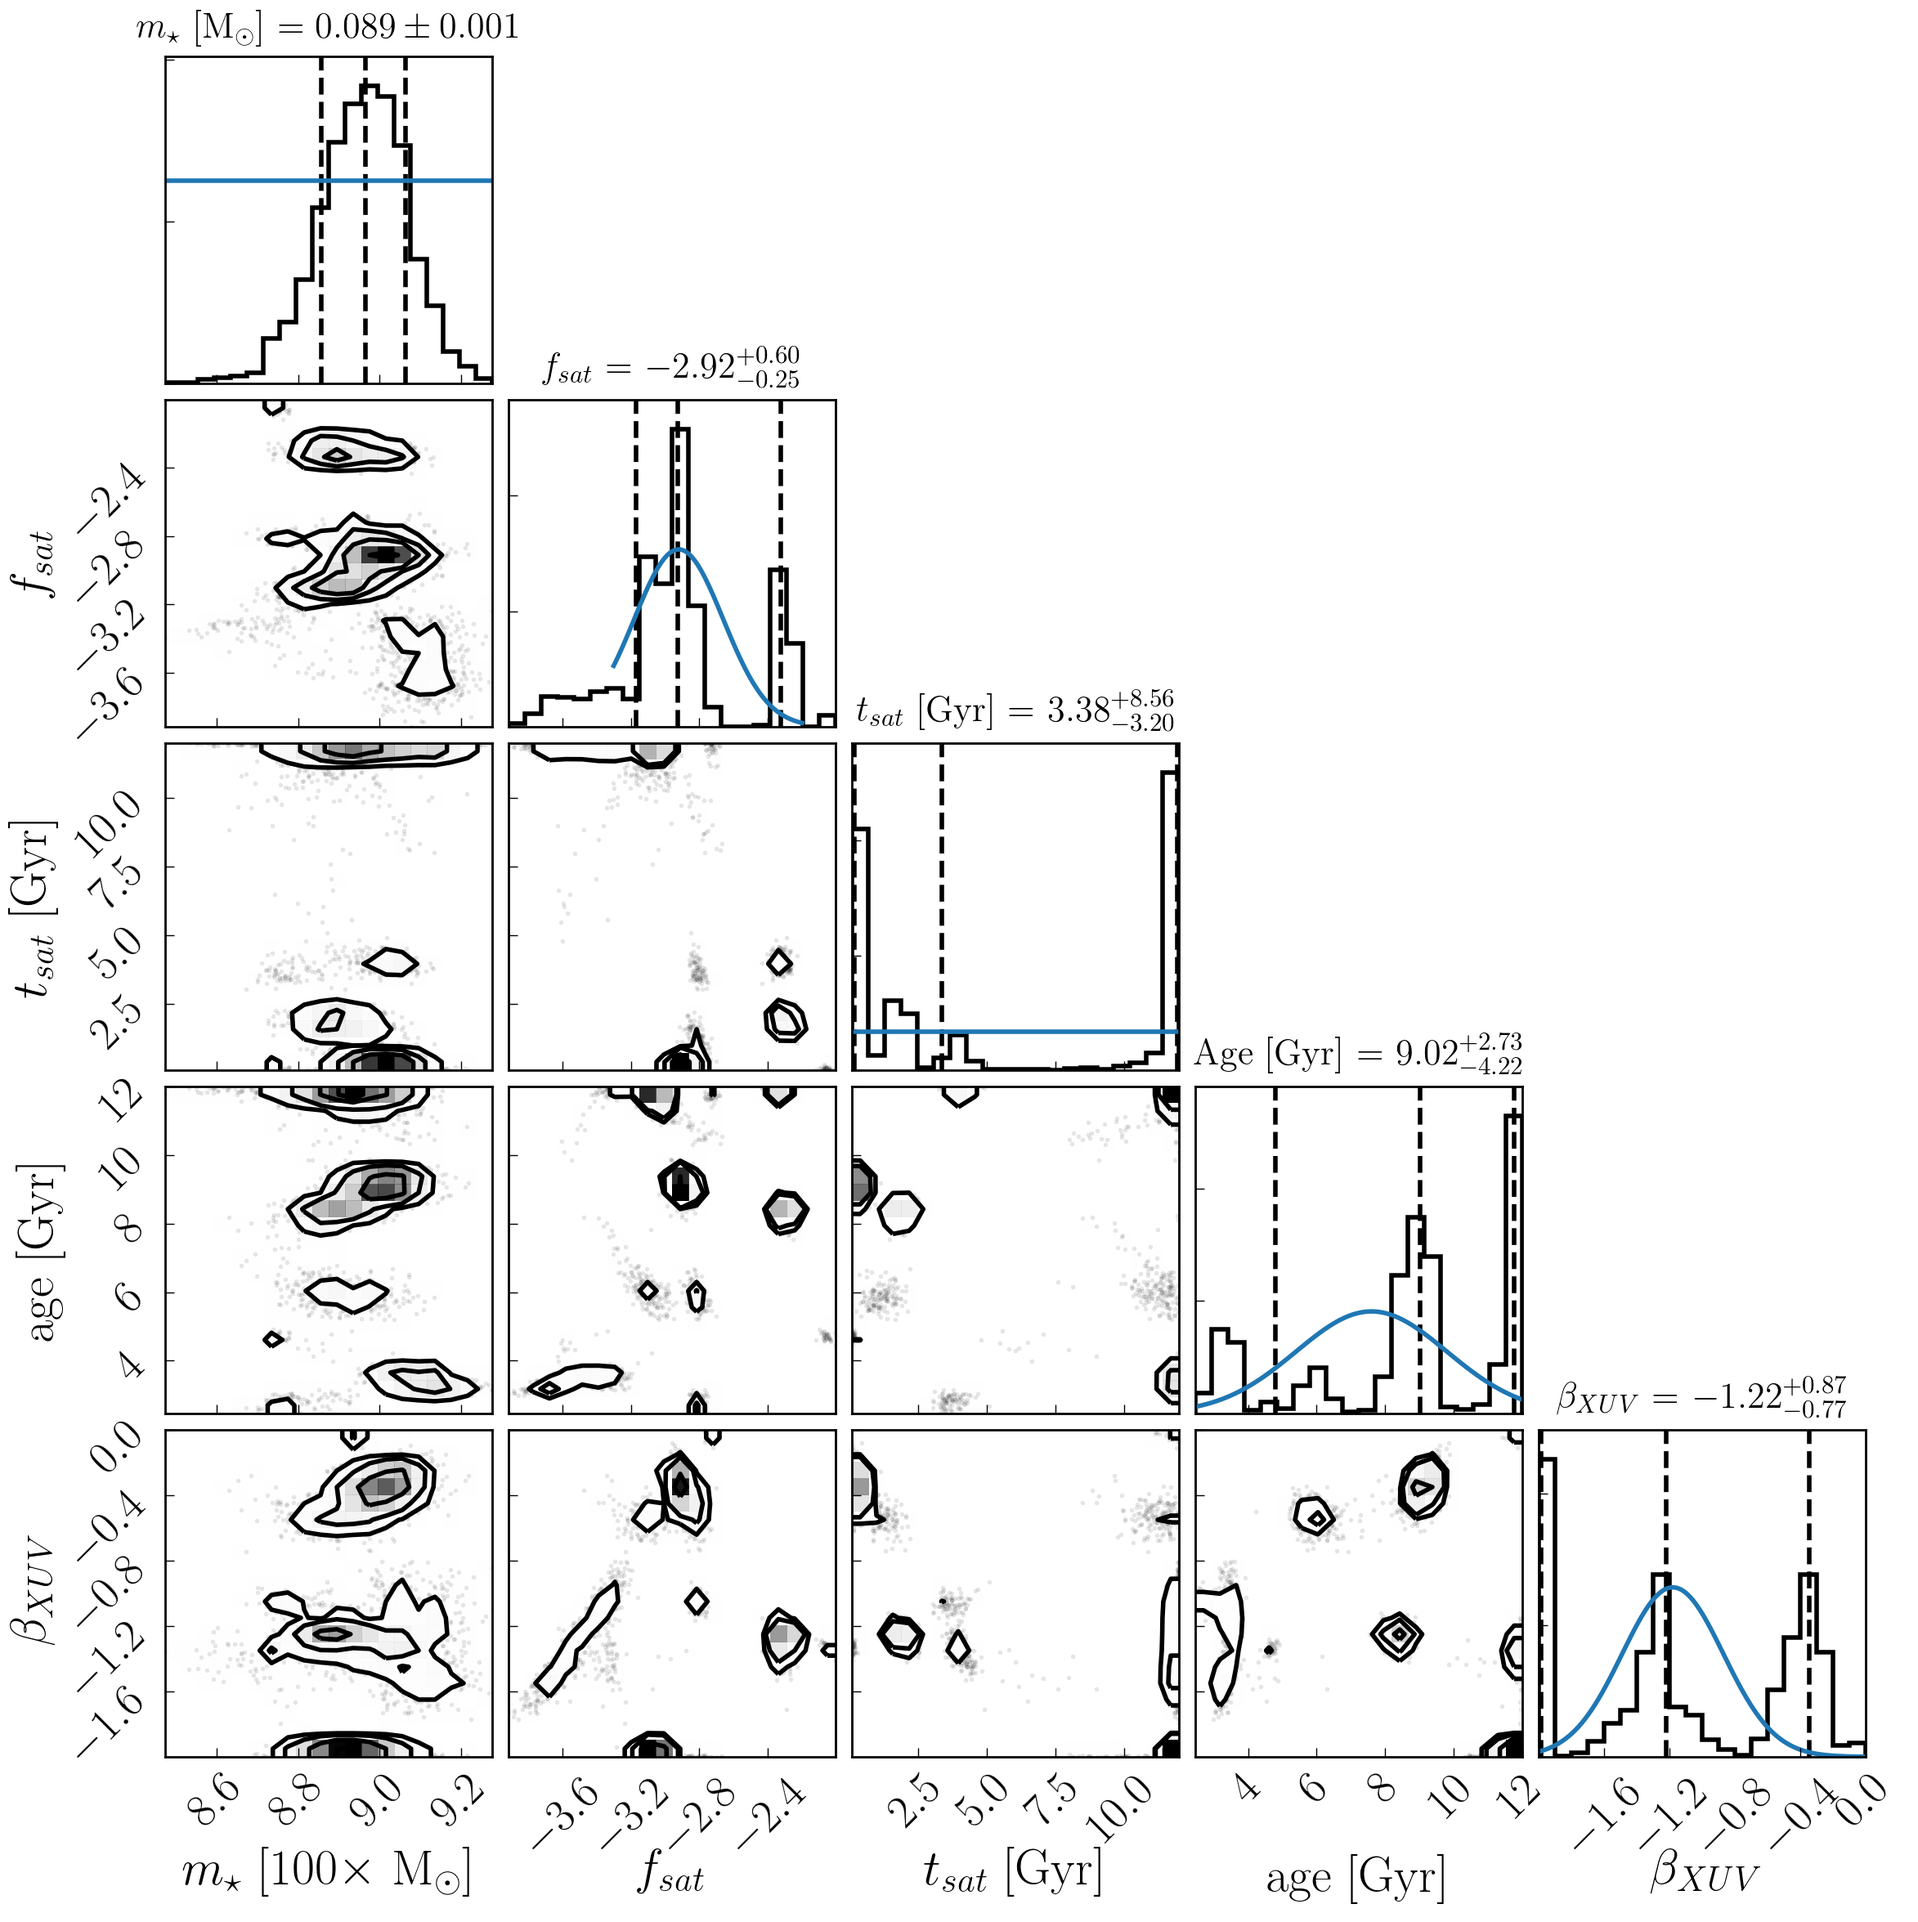
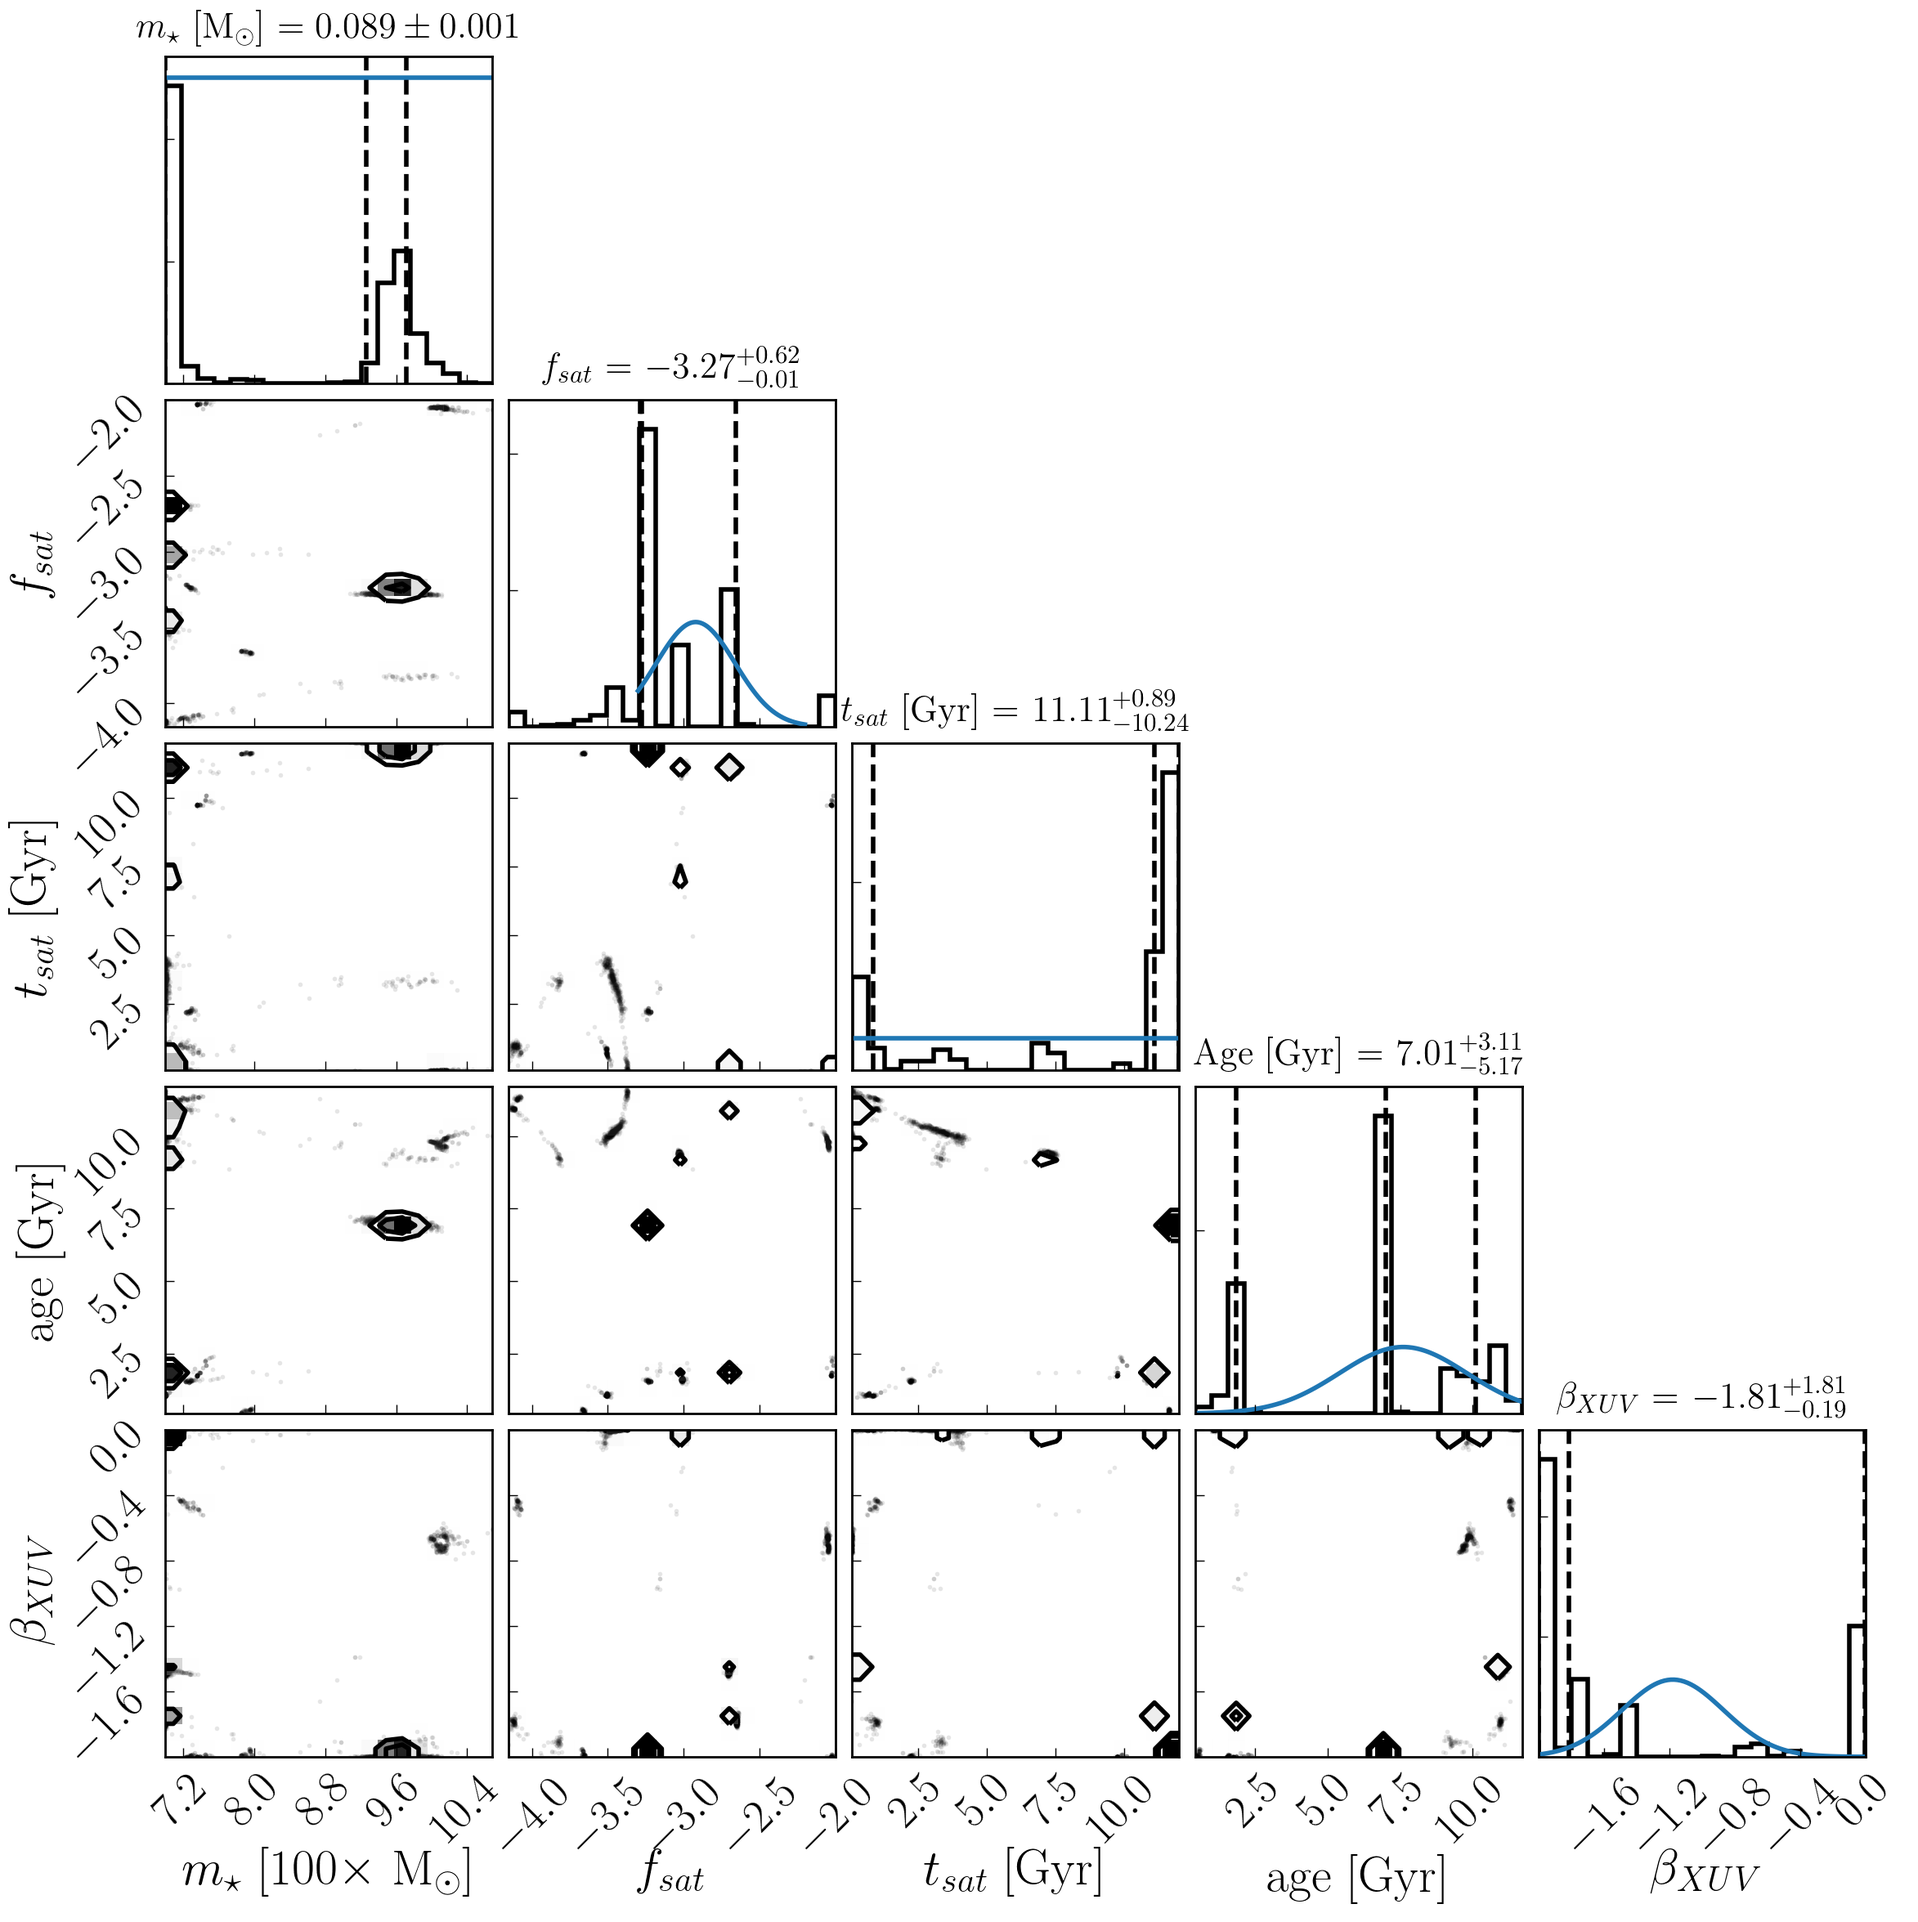
editing figures, splitting lnlike and lnprob functions

diff --git a/trappist/mcmcUtils.py b/trappist/mcmcUtils.py
@@ -150,6 +150,119 @@ def LnLike(x, **kwargs):
     dStopTime *= 1.e9 # Convert from Gyr -> yr
     dOutputTime = dStopTime # Output only at the end of the simulation
 
+    # Get the prior probability to ignore unphysical state vectors
+    # Do this to prevent errors stemming from VPLanet not finishing 
+    lnprior = kwargs["LnPrior"](x, **kwargs)
+    if np.isinf(lnprior):
+        blobs = np.array([np.nan, np.nan, np.nan])
+        return -np.inf, blobs
+
+    # Get strings containing VPLanet input files (they must be provided!)
+    try:
+        star_in = kwargs.get("STARIN")
+        vpl_in = kwargs.get("VPLIN")
+    except KeyError as err:
+        print("ERROR: Must supply STARIN and VPLIN.")
+        raise
+
+    # Get PATH
+    try:
+        PATH = kwargs.get("PATH")
+    except KeyError as err:
+        print("ERROR: Must supply PATH.")
+        raise
+
+    # Randomize file names
+    sysName = 'vpl%012x' % random.randrange(16**12)
+    starName = 'st%012x' % random.randrange(16**12)
+    sysFile = sysName + '.in'
+    starFile = starName + '.in'
+    logfile = sysName + '.log'
+    starFwFile = '%s.star.forward' % sysName
+
+    # Populate the star input file
+    star_in = re.sub("%s(.*?)#" % "dMass", "%s %.6e #" % ("dMass", dMass), star_in)
+    star_in = re.sub("%s(.*?)#" % "dSatXUVFrac", "%s %.6e #" % ("dSatXUVFrac", dSatXUVFrac), star_in)
+    star_in = re.sub("%s(.*?)#" % "dSatXUVTime", "%s %.6e #" % ("dSatXUVTime", -dSatXUVTime), star_in)
+    star_in = re.sub("%s(.*?)#" % "dXUVBeta", "%s %.6e #" % ("dXUVBeta", -dXUVBeta), star_in)
+    with open(os.path.join(PATH, "output", starFile), 'w') as f:
+        print(star_in, file = f)
+
+    # Populate the system input file
+
+    # Populate list of planets
+    saBodyFiles = str(starFile) + " #"
+    saBodyFiles = saBodyFiles.strip()
+
+    vpl_in = re.sub('%s(.*?)#' % "dStopTime", '%s %.6e #' % ("dStopTime", dStopTime), vpl_in)
+    vpl_in = re.sub('%s(.*?)#' % "dOutputTime", '%s %.6e #' % ("dOutputTime", dOutputTime), vpl_in)
+    vpl_in = re.sub('sSystemName(.*?)#', 'sSystemName %s #' % sysName, vpl_in)
+    vpl_in = re.sub('saBodyFiles(.*?)#', 'saBodyFiles %s #' % saBodyFiles, vpl_in)
+    with open(os.path.join(PATH, "output", sysFile), 'w') as f:
+        print(vpl_in, file = f)
+
+    # Run VPLANET and get the output, then delete the output files
+    subprocess.call(["vplanet", sysFile], cwd = os.path.join(PATH, "output"))
+    output = vpl.GetOutput(os.path.join(PATH, "output"), logfile = logfile)
+
+    try:
+        os.remove(os.path.join(PATH, "output", starFile))
+        os.remove(os.path.join(PATH, "output", sysFile))
+        os.remove(os.path.join(PATH, "output", starFwFile))
+        os.remove(os.path.join(PATH, "output", logfile))
+    except FileNotFoundError:
+        # Run failed!
+        blobs = np.array([np.nan, np.nan, np.nan])
+        return -np.inf, blobs
+
+    # Ensure we ran for as long as we set out to
+    if not output.log.final.system.Age / utils.YEARSEC >= dStopTime:
+        blobs = np.array([np.nan, np.nan, np.nan])
+        return -np.inf, blobs
+
+    # Get stellar properties
+    dLum = float(output.log.final.star.Luminosity)
+    dLumXUV = float(output.log.final.star.LXUVStellar)
+    dRad = float(output.log.final.star.Radius)
+
+    # Compute ratio of XUV to bolometric luminosity
+    dLumXUVRatio = dLumXUV / dLum
+
+    # Extract constraints
+    # Must at least have luminosity, err for star
+    lum = kwargs.get("LUM")
+    lumSig = kwargs.get("LUMSIG")
+    try:
+        lumXUVRatio = kwargs.get("LUMXUVRATIO")
+        lumXUVRatioSig = kwargs.get("LUMXUVRATIOSIG")
+    except KeyError:
+        lumXUVRatio = None
+        lumXUVRatioSig = None
+
+    # Compute the likelihood using provided constraints, assuming we have
+    # luminosity constraints for host star
+    lnlike = ((dLum - lum) / lumSig) ** 2
+    if lumXUVRatio is not None:
+        lnlike += ((dLumXUVRatio - lumXUVRatio) / lumXUVRatioSig) ** 2
+    lnlike = -0.5 * lnlike
+
+    # Return likelihood and blobs
+    blobs = np.array([dLum, dLumXUV, dRad])
+    return lnlike, blobs
+
+# end function
+
+def LnProb(x, **kwargs):
+    """
+    logprobability (lnlike + lnprior) function: runs VPLanet simulation
+    """
+
+    # Get the current vector
+    dMass, dSatXUVFrac, dSatXUVTime, dStopTime, dXUVBeta = x
+    dSatXUVFrac = 10 ** dSatXUVFrac # Unlog
+    dStopTime *= 1.e9 # Convert from Gyr -> yr
+    dOutputTime = dStopTime # Output only at the end of the simulation
+
     # Get the prior probability
     lnprior = kwargs["LnPrior"](x, **kwargs)
     if np.isinf(lnprior):
@@ -243,12 +356,11 @@ def LnLike(x, **kwargs):
     lnlike = ((dLum - lum) / lumSig) ** 2
     if lumXUVRatio is not None:
         lnlike += ((dLumXUVRatio - lumXUVRatio) / lumXUVRatioSig) ** 2
-    lnlike = -0.5 * lnlike + lnprior
+    lnprob = -0.5 * lnlike + lnprior
 
     # Return likelihood and blobs
     blobs = np.array([dLum, dLumXUV, dRad])
-    return lnlike, blobs
-
+    return lnprob, blobs
 # end function
 
 
@@ -382,7 +494,7 @@ def RunMCMC(x0=None, ndim=5, nwalk=100, nsteps=5000, pool=None, backend=None,
     ### Run MCMC ###
 
     # Initialize the sampler object
-    sampler = emcee.EnsembleSampler(nwalk, ndim, LnLike, kwargs=kwargs,
+    sampler = emcee.EnsembleSampler(nwalk, ndim, LnProb, kwargs=kwargs,
                                     pool=pool, backend=handler)
 
     # Actually run the MCMC

diff --git a/Analysis/Validation/ap.py b/Analysis/Validation/ap.py
@@ -11,21 +11,21 @@ Script output:
 
 Number of iterations: 10000
 Acceptance fraction for each walker:
-[0.4571 0.4403 0.4565 0.4299 0.4635 0.4397 0.455  0.4477 0.4505 0.4393
- 0.4571 0.4442 0.4565 0.4455 0.4364 0.4491 0.437  0.4416 0.436  0.437
- 0.4464 0.4403 0.4531 0.4365 0.442  0.4525 0.4409 0.4434 0.4455 0.4442
- 0.4408 0.4416 0.4424 0.4499 0.4544 0.4554 0.4534 0.451  0.4468 0.4492
- 0.4601 0.4531 0.4344 0.4437 0.4572 0.4366 0.4466 0.4539 0.4457 0.4547
- 0.4574 0.4459 0.439  0.4495 0.4383 0.4447 0.4528 0.4558 0.4394 0.4523
- 0.4643 0.449  0.4528 0.4496 0.4511 0.4488 0.4547 0.4405 0.4365 0.4592
- 0.4535 0.4435 0.4545 0.4383 0.4514 0.4496 0.4445 0.457  0.4567 0.4535
- 0.4432 0.4491 0.4563 0.4504 0.4397 0.4419 0.4505 0.4482 0.4394 0.4468
- 0.4427 0.4401 0.4541 0.4595 0.4452 0.4532 0.4477 0.4578 0.4494 0.4509]
-Mean acceptance fraction: 0.4478579999999999
-Burnin, thin: 245 49
+[0.4415 0.4436 0.4458 0.4458 0.4518 0.4421 0.4534 0.4495 0.4533 0.4526
+ 0.451  0.4551 0.4464 0.4435 0.4512 0.4444 0.4542 0.4534 0.4561 0.4406
+ 0.4619 0.4332 0.45   0.4499 0.4344 0.4519 0.4516 0.4463 0.4515 0.4435
+ 0.4325 0.4413 0.4387 0.4429 0.4524 0.4419 0.4451 0.454  0.4431 0.4532
+ 0.4411 0.4479 0.4458 0.4469 0.4429 0.4509 0.4267 0.4524 0.4462 0.4435
+ 0.451  0.4411 0.4461 0.4559 0.4366 0.4506 0.4275 0.4544 0.4433 0.4511
+ 0.4274 0.4485 0.4316 0.4486 0.4465 0.4442 0.4333 0.442  0.4489 0.4323
+ 0.4356 0.4448 0.4317 0.4514 0.4488 0.4453 0.4452 0.4585 0.4535 0.4418
+ 0.4491 0.4489 0.4379 0.4499 0.452  0.4549 0.4527 0.4564 0.449  0.4344
+ 0.4475 0.4531 0.4532 0.4523 0.4415 0.4436 0.4495 0.4484 0.4503 0.4489]
+Mean acceptance fraction: 0.446299
+Burnin, thin: 249 46
 Likely converged if iterations > 50 * tau, where tau is the integrated autocorrelation time.
-Number of iterations / tau: [ 96.49808769 100.47998756  91.29981213  81.63147647  92.91741306]
-Mean Number of iterations / tau: 92.56535538389817
+Number of iterations / tau: [101.8065953  108.33310137  94.35649071  80.14005706  94.21795778]
+Mean Number of iterations / tau: 95.77084044212332
 
 """
 
@@ -45,7 +45,7 @@ nmax = 5                                        # Maximum number of iterations
 ndim = 5                                        # Dimensionality
 bounds = list((-5,5) for _ in range(ndim))      # Prior bounds
 algorithm = "alternate"                         # Use both bape and agp
-seed = 57                                       # RNG seed
+seed = 70                                       # RNG seed
 
 np.random.seed(seed)
 
@@ -82,7 +82,7 @@ if not os.path.exists("apRun4.h5"):
         y[ii] = lnlike(theta[ii]) + lnprior(theta[ii])
 
     # Create the the default GP which uses an ExpSquaredKernel
-    gp = gpUtils.defaultGP(theta, y, white_noise=-10)
+    gp = gpUtils.defaultGP(theta, y, white_noise=-10, fitAmp=True)
 
     # Initialize object using the Wang & Li (2017) Rosenbrock function example
     ap = approx.ApproxPosterior(theta=theta,
@@ -95,7 +95,7 @@ if not os.path.exists("apRun4.h5"):
                                 algorithm=algorithm)
 
     # Run!
-    ap.run(m=m, nmax=nmax, estBurnin=True, nGPRestarts=10, mcmcKwargs=mcmcKwargs,
+    ap.run(m=m, nmax=nmax, estBurnin=True, nGPRestarts=5, mcmcKwargs=mcmcKwargs,
            cache=True, samplerKwargs=samplerKwargs, verbose=True, thinChains=True,
            onlyLastMCMC=True, optGPEveryN=25, nMinObjRestarts=5,
            dropInitialTraining=True)
@@ -122,6 +122,6 @@ fig.axes[24].axhline(0.1, lw=2, color="C0")
 
 # Save figure
 if (sys.argv[1] == 'pdf'):
-    fig.savefig("approxRD5Corner.pdf", bbox_inches="tight", dpi=200)
+    fig.savefig("apCorner.pdf", bbox_inches="tight", dpi=200)
 if (sys.argv[1] == 'png'):
-    fig.savefig("approxRD5Corner.png", bbox_inches="tight", dpi=200)
+    fig.savefig("apCorner.png", bbox_inches="tight", dpi=200)

diff --git a/Analysis/Approx/plotCornerApproxOnlyTrappist1.py b/Analysis/Approx/plotCornerApproxOnlyTrappist1.py
@@ -62,7 +62,7 @@ plotAPPoints = False
 
 # Path to data
 #filename = "../../Data/convergedAP.h5"
-filename = "../../Data/apRun0.h5"
+filename = "../../Data/apRun4.h5"
 
 # Extract data
 samples = extractMCMCResults(filename, blobsExist=False, burn=500, thinChains=True)
